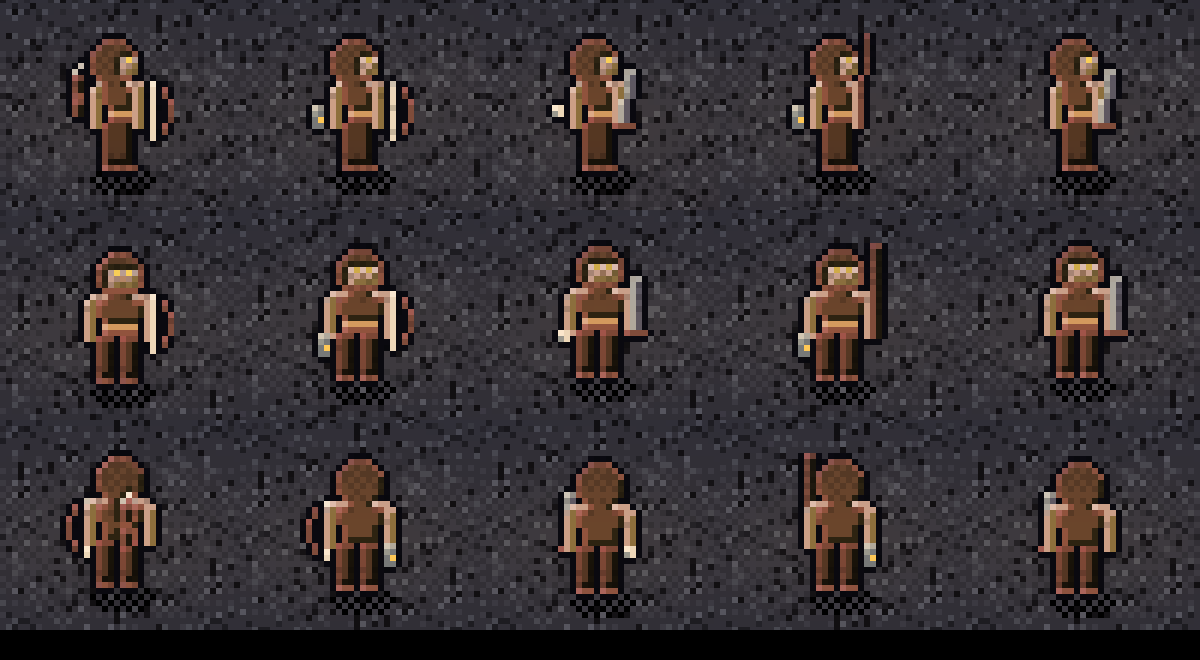
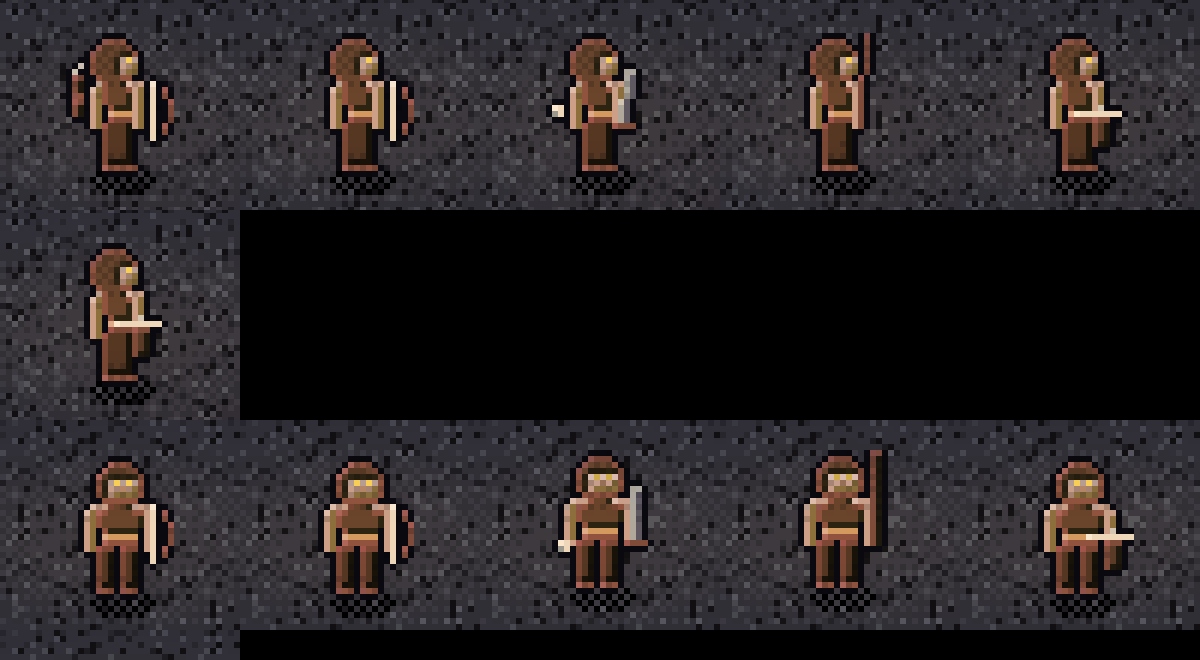
Two-handed weapons block every offhand; a bow takes only a quiver
A lantern or skull now needs a free hand like a shield, so any
two-handed weapon knocks it off and refuses it. The bow is the one
exception and takes a quiver and nothing else; a crossbow takes nothing.
The refusal names the rule ("A bow only takes a quiver", "Cannot use an
offhand with a two-handed weapon") and the item card shows it in red
before you try. Crossbow joins the dev menu's weapon row.

Claude-Session: https://claude.ai/code/session_01QTYkTZLkkmMsHgterwfJcv

diff --git a/src/sim/items/equipment.ts b/src/sim/items/equipment.ts
@@ -1,4 +1,4 @@
-import { EQUIP_SLOTS, type EquipSlot } from '../../data/items';
+import { EQUIP_SLOTS, type EquipSlot, type OffhandKind } from '../../data/items';
 import { isTwoHanded, type Item } from './item';
 
 export type EquipKey = 'weapon' | 'shield' | 'helmet' | 'chest' | 'gloves' | 'boots' | 'belt' | 'amulet' | 'ring1' | 'ring2' | 'totem' | 'relic' | 'charm';
@@ -15,11 +15,21 @@ export function keysForSlot(slot: EquipSlot): EquipKey[] {
   return slot === 'ring' ? ['ring1', 'ring2'] : [slot];
 }
 
-/** Whether the item in the shield slot cannot be held alongside this weapon. */
+/**
+ * Whether the item in the shield slot cannot be held alongside this weapon.
+ * Two-handed weapons leave no hand free for a shield, lantern or skull; a bow
+ * is the one exception and takes a quiver, which needs a bow and nothing else.
+ */
 export function offhandConflict(off: Item, weapon: Item | null | undefined): boolean {
   if (off.offhand === 'quiver') return weapon?.weapon?.type !== 'bow';
-  if (off.offhand) return false;
   return isTwoHanded(weapon);
+}
+
+/** Why an offhand cannot go on with this weapon, for the refusal message and the item card. */
+export function offhandReason(off: { offhand?: OffhandKind }, weapon: Item | null | undefined): string {
+  if (off.offhand === 'quiver') return 'A quiver needs a bow';
+  if (weapon?.weapon?.type === 'bow') return 'A bow only takes a quiver';
+  return `Cannot use ${off.offhand ? 'an offhand' : 'a shield'} with a two-handed weapon`;
 }
 
 /** Worn items by slot key. */
@@ -45,9 +55,8 @@ export class Equipment {
 
   /**
    * Equips an item and returns everything that came off (the replaced item, the
-   * shield if a two-handed weapon was equipped, the quiver if the bow was swapped
-   * for anything else). The caller puts those back in the bag. Lanterns and skulls
-   * hang from the belt, so they stay on whatever the weapon.
+   * shield, lantern or skull if a two-handed weapon was equipped, the quiver if
+   * the bow was swapped for anything else). The caller puts those back in the bag.
    */
   equip(item: Item, level: number, preferred?: EquipKey): { ok: boolean; removed: Item[]; reason?: string } {
     if (item.reqLevel > level) return { ok: false, removed: [], reason: `Requires level ${item.reqLevel}` };
@@ -61,7 +70,7 @@ export class Equipment {
       this.slots.shield = null;
     }
     if (key === 'shield' && offhandConflict(item, this.slots.weapon)) {
-      return { ok: false, removed: [], reason: item.offhand === 'quiver' ? 'A quiver needs a bow' : 'Cannot use a shield with a two-handed weapon' };
+      return { ok: false, removed: [], reason: offhandReason(item, this.slots.weapon) };
     }
     this.slots[key] = item;
     return { ok: true, removed };

diff --git a/src/sim/items/items.test.ts b/src/sim/items/items.test.ts
@@ -130,22 +130,32 @@ describe('equipment', () => {
     expect(eq.get('shield')).toBeNull();
   });
 
-  it('a lantern or skull sits in the shield slot even with a two-handed weapon', () => {
+  it('a lantern or skull needs a one-handed weapon; a bow takes only a quiver and a crossbow nothing', () => {
     const eq = new Equipment();
-    const staff = makeStarterItem('wooden_staff');
     const lantern = makeItem(baseItem('lantern'), 'common', 1, null);
     const skull = makeItem(baseItem('skull'), 'common', 1, null);
-    expect(eq.equip(staff, 1).ok).toBe(true);
-    expect(eq.equip(lantern, 1).ok).toBe(true);
+    const quiver = makeItem(baseItem('quiver'), 'common', 1, null);
     expect(lantern.stats.moveSpeed).toBe(5);
     expect(lantern.stats.atkSpd).toBe(0.1);
-    const res = eq.equip(skull, 1);
-    expect(res.ok).toBe(true);
-    expect(res.removed).toContain(lantern);
     expect(skull.stats.critChance).toBe(3);
     expect(skull.stats.critDamage).toBe(15);
-    // A two-handed weapon going on keeps the skull but would drop a real shield
-    expect(eq.equip(makeStarterItem('wooden_bow'), 1).removed).not.toContain(skull);
+    expect(eq.equip(makeStarterItem('wooden_sword'), 1).ok).toBe(true);
+    expect(eq.equip(lantern, 1).ok).toBe(true);
+    const swap = eq.equip(skull, 1);
+    expect(swap.ok).toBe(true);
+    expect(swap.removed).toContain(lantern);
+    // A two-handed staff going on knocks the skull off like a shield
+    expect(eq.equip(makeStarterItem('wooden_staff'), 1).removed).toContain(skull);
+    expect(eq.equip(skull, 1).reason).toBe('Cannot use an offhand with a two-handed weapon');
+    // A bow takes a quiver and nothing else
+    expect(eq.equip(makeStarterItem('wooden_bow'), 1).ok).toBe(true);
+    expect(eq.equip(lantern, 1).reason).toBe('A bow only takes a quiver');
+    expect(eq.equip(quiver, 1).ok).toBe(true);
+    // A crossbow is two-handed with no exception: the quiver comes off and nothing goes back on
+    const crossbow = makeItem(baseItem('crossbow'), 'common', 1, null);
+    expect(eq.equip(crossbow, 1).removed).toContain(quiver);
+    expect(eq.equip(quiver, 1).reason).toBe('A quiver needs a bow');
+    expect(eq.equip(skull, 1).ok).toBe(false);
   });
 
   it('enforces level requirements', () => {

diff --git a/src/sim/player.ts b/src/sim/player.ts
@@ -6,10 +6,9 @@ import { passivesFor } from '../data/passives';
 import { SKILLS, SKILL_RULES, skillsFor, type BuffMods } from '../data/skills';
 import { COMBAT_RULES } from '../data/status';
 import { addStats, type StatKey, type StatMap } from '../data/stats';
-import type { OffhandKind, WeaponType } from '../data/items';
 import { ITEM_RULES } from '../data/items';
 import { PX } from '../data/units';
-import { Equipment } from './items/equipment';
+import { Equipment, offhandConflict, offhandReason } from './items/equipment';
 import { Inventory } from './items/inventory';
 import { makeStarterItem, type Item } from './items/item';
 
@@ -300,13 +299,16 @@ export function skillRank(p: PlayerState, id: string): number {
 }
 
 /** Class weapon rules: a knight only ever holds a sword, mace or bardiche. */
-export function canEquipItem(p: PlayerState, item: { weapon?: { type: WeaponType }; offhand?: OffhandKind }): { ok: boolean; reason?: string } {
+export function canEquipItem(p: PlayerState, item: Item): { ok: boolean; reason?: string } {
   const allowed = CLASSES[p.classId].allowedWeapons;
   if (item.weapon && allowed && !allowed.includes(item.weapon.type)) {
     const names = allowed.map((t) => t.charAt(0).toUpperCase() + t.slice(1)).join(', ');
     return { ok: false, reason: `${CLASSES[p.classId].name}s only use ${names}` };
   }
-  if (item.offhand === 'quiver' && p.equipment.get('weapon')?.weapon?.type !== 'bow') return { ok: false, reason: 'A quiver needs a bow' };
+  if (item.slot === 'shield') {
+    const weapon = p.equipment.get('weapon');
+    if (offhandConflict(item, weapon)) return { ok: false, reason: offhandReason(item, weapon) };
+  }
   return { ok: true };
 }
 

diff --git a/src/data/items.ts b/src/data/items.ts
@@ -61,7 +61,7 @@ export interface WeaponProps {
   range: number;
 }
 
-/** Offhand items share the shield slot. A quiver needs a bow; a lantern or skull hangs from the belt, so any weapon will do. */
+/** Offhand items share the shield slot and, like shields, need a free hand: no two-handed weapons. A quiver is the exception, it needs a bow. */
 export type OffhandKind = 'lantern' | 'skull' | 'quiver';
 
 export interface BaseItem {
@@ -114,7 +114,7 @@ export const ACCESSORY_BASES: BaseItem[] = [
   { id: 'jade_amulet', name: 'Jade Amulet', slot: 'amulet', size: [1, 1], stats: { vit: 1, armor: 2 } },
   { id: 'wooden_shield_base', name: 'Wooden Shield', slot: 'shield', size: [2, 2], stats: { armor: 6, vit: 1, block: 8 } },
   { id: 'iron_shield', name: 'Iron Shield', slot: 'shield', size: [2, 2], stats: { armor: 12, str: 1, block: 15 } },
-  // Offhands: they take the shield's spot. A lantern or skull goes with any weapon, a quiver only with a bow.
+  // Offhands: they take the shield's spot. A lantern or skull needs a one-handed weapon, a quiver a bow, a crossbow takes nothing.
   { id: 'lantern', name: 'Lantern', slot: 'shield', size: [1, 2], stats: { atkSpd: 0.1, moveSpeed: 5 }, offhand: 'lantern' },
   { id: 'skull', name: 'Skull', slot: 'shield', size: [2, 2], stats: { critChance: 3, critDamage: 15 }, offhand: 'skull' },
   { id: 'quiver', name: 'Quiver', slot: 'shield', size: [1, 3], stats: { critChance: 2, critDamage: 10, atkSpd: 0.1 }, offhand: 'quiver' },

diff --git a/src/ui/game/devMenu.ts b/src/ui/game/devMenu.ts
@@ -34,7 +34,7 @@ const SLIDERS: DevSlider[] = [
 ];
 
 /** Weapons the dev menu can hand out, one button each, in this order. */
-const GIVE_WEAPONS = ['sword', 'spear', 'mace', 'bardiche', 'wand', 'staff', 'dagger', 'bow', 'spellbook', 'warpike'];
+const GIVE_WEAPONS = ['sword', 'spear', 'mace', 'bardiche', 'wand', 'staff', 'dagger', 'bow', 'crossbow', 'spellbook', 'warpike'];
 /** Offhands and shields the dev menu can hand out. */
 const GIVE_OFFHANDS = ['wooden_shield_base', 'iron_shield', 'lantern', 'skull', 'quiver'];
 

diff --git a/docs/design/systems-reference.md b/docs/design/systems-reference.md
@@ -22,7 +22,7 @@ arrives.
 | Status effects | `src/data/status.ts`, `src/sim/combat.ts` | Stun, freeze, slow, poison, burn, bleed, death curse, shock, electrocute, with the export's proc chances |
 | Items | `src/data/items.ts`, `src/sim/items/` | 13 weapons (incl. bardiche, spellbook, warpike), 5 armours, 8 accessories, 3 offhands (lantern: attack and movement speed; skull: crit chance and crit damage; quiver: both crits and attack speed, bow only) that take the shield slot, 4 divine specials, 6 starters; six rarities with the export's weights, multipliers and value formula; random affixes. Weapon damage, armour and block scale by the rarity multiplier (1x common to 5.5x divine) and 12% per item level; attribute bonuses (strength, life, crit and so on) scale by a gentler rarity bonus (1x to 2.5x) and 6% per level, so a level 2 magic weapon gives a point or two and a level 100 mythic one a dozen. Boots always carry Movement Speed, 5% on level 1 commons, scaling like an attribute bonus (about 20% at level 50, 35% at level 100, more on higher rarities). Starters and the divine specials keep their numbers as written |
 | Inventory and stash | `src/sim/items/inventory.ts` | 18x14 bag (`ITEM_RULES.inventoryCols/Rows`), three 12x12 stash pages, sized items; Sort All (`Inventory.sort`) repacks the bag from the top left, tallest and widest first, then by rarity |
-| Equipment | `src/sim/items/equipment.ts` | 13 slots, two rings, two-handed weapons block the shield (but not a lantern or skull), a quiver needs a bow and comes off when the bow does, only a real shield blocks, level requirements |
+| Equipment | `src/sim/items/equipment.ts` | 13 slots, two rings, two-handed weapons block the shield slot entirely (shield, lantern and skull alike; a crossbow takes nothing), the bow is the one exception and takes only a quiver, which comes off when the bow does; only a real shield blocks; level requirements |
 | Vendor | `src/sim/items/vendor.ts`, `World.sellAll` | Stock capped at magic, item level 65/20/10/5 spread, sells at 40%; Sell all Common and Sell all Magic buttons empty the bag of that rarity in one tap |
 | Crafting | `src/data/crafting.ts`, `src/sim/items/crafting.ts` | Forge (4 smelts, 5 uses each), Blood Fountain (4), Arcana Oracle (enchant, transmute, infuse, reroll) |
 | Consumables | `src/data/consumables.ts` | Health potion, bandage, mana potion, incense; charges refill on kills |

diff --git a/docs/design/game-design-document.md b/docs/design/game-design-document.md
@@ -113,8 +113,9 @@ monster numbers change; the numbers live in `docs/design/systems-reference.md`.
 - **Slots:** weapon, shield, helmet, chest, gloves, boots, belt, amulet, two
   rings, totem, relic, charm. An 18x14 bag and a three-page stash of 12x12.
 - **Offhands:** a lantern (attack and movement speed), a skull (critical
-  chance and damage) or a quiver (both crits and attack speed, bow only) can
-  take the shield's spot. Only a real shield blocks.
+  chance and damage) or a quiver (both crits and attack speed) can take the
+  shield's spot. Like a shield they need a one-handed weapon; a bow takes a
+  quiver and nothing else, a crossbow takes nothing. Only a real shield blocks.
 - **Crafting:** Forge of Heaven, Blood Fountain and Arcana Oracle in town.
 - **Visible gear:** weapons, shields and offhands change the hero's appearance;
   other slots later.
